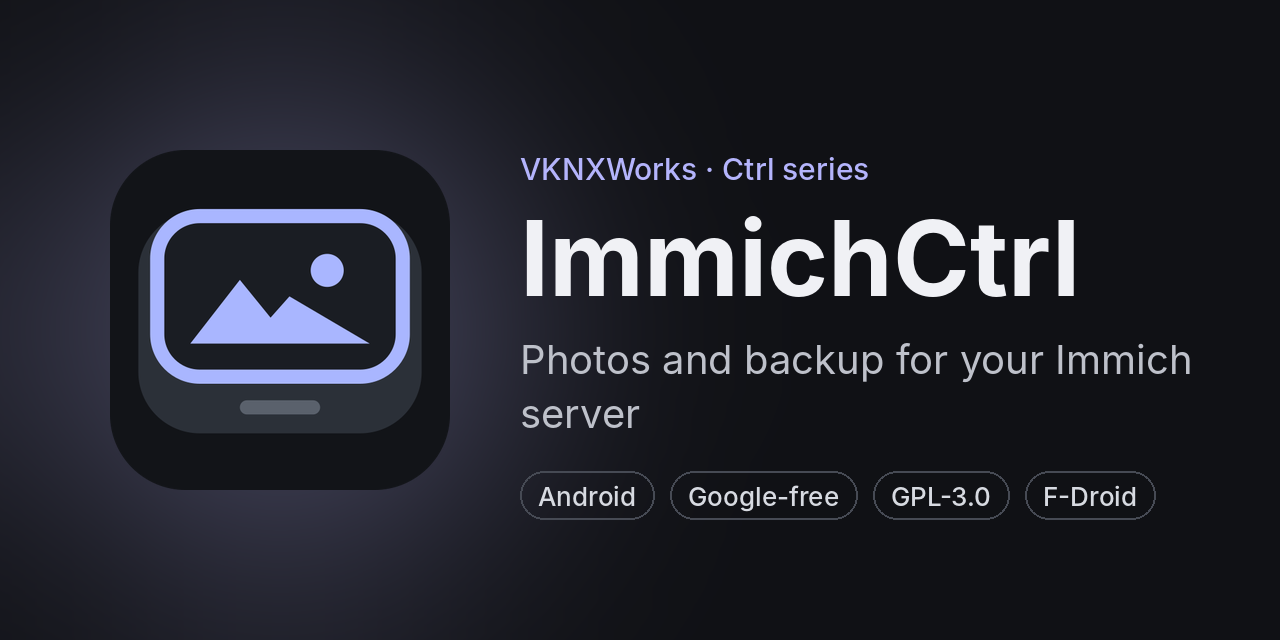
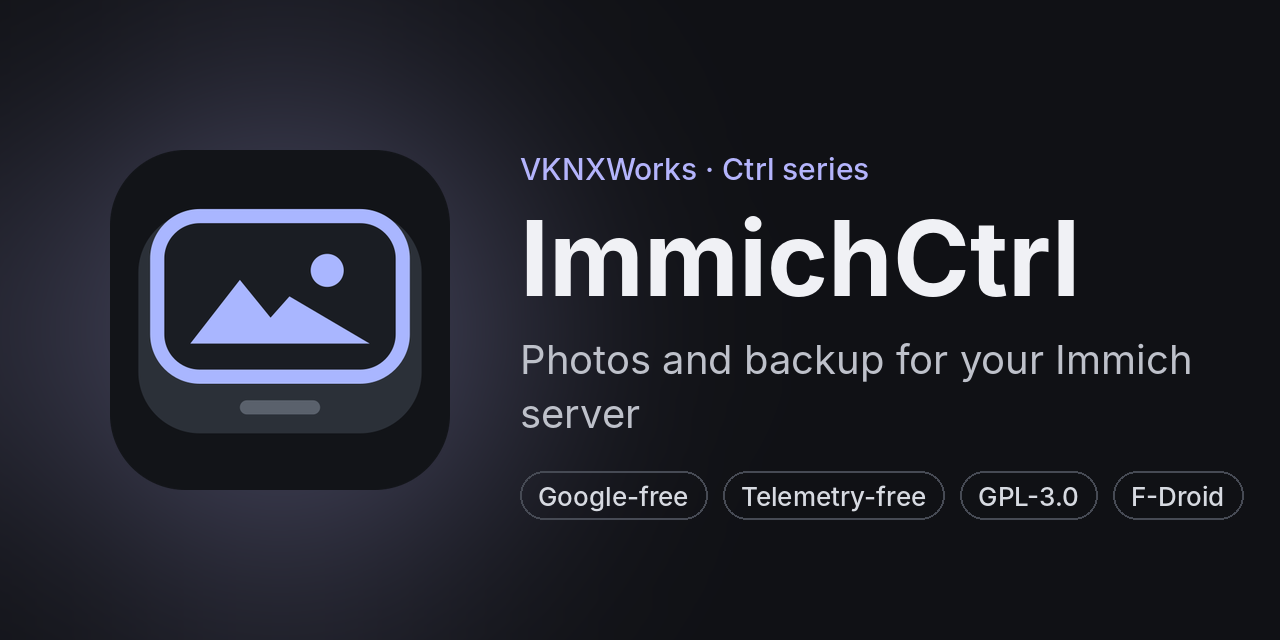
ImmichCtrl 0.3.3: remove the usage stats, telemetry-free
Claude-Session: https://claude.ai/code/session_01EwhEpZ1DKRJef9Cqeiv5g2

Changed region(s): [[0.4062, 0.7188, 0.9688, 0.8125]]

diff --git a/app/src/main/java/com/vknxworks/immichctrl/ui/photos/AssetActions.kt b/app/src/main/java/com/vknxworks/immichctrl/ui/photos/AssetActions.kt
@@ -164,13 +164,6 @@ fun AppContainer.trash(assets: Collection<Asset>, permanently: Boolean) {
     }
 }
 
-/**
- * Usage stats (only if the user opted in): which kind of action, and a rough size ("2-10"),
- * never which photos or album.
- */
-internal fun AppContainer.trackAction(kind: String, count: Int) =
-    telemetry.track("photo_action", mapOf("kind" to kind, "items" to telemetry.sizeBucket(count)))
-
 /** Removes the phone's copy of photos that are backed up (Free Up Space for a few photos). */
 fun AppContainer.deleteFromPhone(assets: Collection<Asset>) {
     val backedUp = assets.filter { it.onDevice && it.localId != null }
@@ -205,8 +198,7 @@ fun AppContainer.restore(assets: Collection<Asset>) {
 }
 
 /** Server photos are added; photos only on this phone are uploaded straight into the album. */
-fun AppContainer.addToAlbum(albumId: String, albumName: String, assets: Collection<Asset>, track: Boolean = true) {
-    if (track) trackAction("add_to_album", assets.size)
+fun AppContainer.addToAlbum(albumId: String, albumName: String, assets: Collection<Asset>) {
     val remote = assets.filter { it.isRemote }.map { it.id }
     val phone = phoneUris(assets.filter { it.isLocalOnly })
     runTask {
@@ -232,7 +224,6 @@ fun AppContainer.removeFromAlbum(albumId: String, assets: Collection<Asset>) {
 }
 
 fun AppContainer.share(assets: Collection<Asset>, large: Boolean) {
-    trackAction("share", assets.size)
     val remote = assets.filter { it.isRemote }.map { it.id }
     val phone = phoneUris(assets.filter { it.isLocalOnly })
     if (remote.isNotEmpty()) toast(if (assets.size == 1) "Preparing to share…" else "Preparing ${assets.size} items to share…")
@@ -243,7 +234,6 @@ fun AppContainer.share(assets: Collection<Asset>, large: Boolean) {
 fun AppContainer.download(assets: Collection<Asset>) {
     val remote = assets.filter { it.isRemote }
     if (remote.isEmpty()) return
-    trackAction("save_to_phone", remote.size)
     toast("Saving ${countLabel(remote.size, "item")} to Pictures/ImmichCtrl…")
     runTask {
         val n = Exporter.download(context, api, remote.map { it.id })
@@ -254,7 +244,6 @@ fun AppContainer.download(assets: Collection<Asset>) {
 fun AppContainer.shareLink(assets: Collection<Asset>, options: LinkOptions = LinkOptions()) {
     val remote = assets.filter { it.isRemote }
     if (remote.isEmpty()) return
-    trackAction("share_link", remote.size)
     runTask {
         val link = api.createSharedLink(
             assetIds = remote.map { it.id },
@@ -450,12 +439,11 @@ fun SelectionBar(
             pickAlbum = false
             val list = assets
             if (id == null) {
-                c.trackAction("create_album", list.size)
                 c.runTask {
                     val remote = list.filter { it.isRemote }.map { it.id }
                     val album = c.api.createAlbum(name, remote)
                     c.toast("Created $name")
-                    if (list.any { it.isLocalOnly }) c.addToAlbum(album.id, name, list.filter { it.isLocalOnly }, track = false)
+                    if (list.any { it.isLocalOnly }) c.addToAlbum(album.id, name, list.filter { it.isLocalOnly })
                     Sources.refreshAll()
                 }
             } else {

diff --git a/app/src/main/java/com/vknxworks/immichctrl/data/settings/AppSettings.kt b/app/src/main/java/com/vknxworks/immichctrl/data/settings/AppSettings.kt
@@ -15,6 +15,7 @@ import kotlinx.coroutines.flow.StateFlow
 import kotlinx.coroutines.flow.first
 import kotlinx.coroutines.flow.map
 import kotlinx.coroutines.flow.stateIn
+import kotlinx.coroutines.launch
 
 enum class ThemeChoice(val label: String) { SYSTEM("Follow system"), DARK("Dark"), LIGHT("Light"), BLACK("Pure black") }
 
@@ -86,12 +87,6 @@ data class AppSettings(
     val backupVideos: Boolean = true,
     /** Mirror phone albums to server albums with the same names. */
     val albumSync: Boolean = false,
-
-    // Usage stats
-    /** Opt-in anonymous usage stats (off until the user says yes). */
-    val usageStats: Boolean = false,
-    /** Whether the one-time usage stats question has been answered. */
-    val usageStatsAsked: Boolean = false,
 )
 
 class SettingsRepository(private val context: Context, scope: CoroutineScope) {
@@ -132,13 +127,18 @@ class SettingsRepository(private val context: Context, scope: CoroutineScope) {
         val charging = booleanPreferencesKey("backup_charging_only")
         val videos = booleanPreferencesKey("backup_videos")
         val albumSync = booleanPreferencesKey("album_sync")
-        val usageStats = booleanPreferencesKey("usage_stats")
-        val usageStatsAsked = booleanPreferencesKey("usage_stats_asked")
+        /** Left over from the optional stats removed in 0.3.3; deleted on the next save and at start. */
+        val legacy = listOf(booleanPreferencesKey("usage_stats"), booleanPreferencesKey("usage_stats_asked"))
     }
 
     val settings: StateFlow<AppSettings> = context.appDataStore.data
         .map { it.toSettings() }
         .stateIn(scope, SharingStarted.Eagerly, AppSettings())
+
+    init {
+        // Delete what the removed optional stats stored, so nothing of them stays on the phone.
+        scope.launch { context.appDataStore.edit { p -> K.legacy.forEach { p.remove(it) } } }
+    }
 
     /** The stored settings as they're read and changed, without [settings]' placeholder defaults at start-up. */
     val stored: Flow<AppSettings> = context.appDataStore.data.map { it.toSettings() }
@@ -180,8 +180,6 @@ class SettingsRepository(private val context: Context, scope: CoroutineScope) {
         backupChargingOnly = this[K.charging] ?: false,
         backupVideos = this[K.videos] ?: true,
         albumSync = this[K.albumSync] ?: false,
-        usageStats = this[K.usageStats] ?: false,
-        usageStatsAsked = this[K.usageStatsAsked] ?: false,
     )
 
     /** The stored settings, read fresh (for background work started before [settings] has loaded). */
@@ -226,8 +224,7 @@ class SettingsRepository(private val context: Context, scope: CoroutineScope) {
             p[K.charging] = s.backupChargingOnly
             p[K.videos] = s.backupVideos
             p[K.albumSync] = s.albumSync
-            p[K.usageStats] = s.usageStats
-            p[K.usageStatsAsked] = s.usageStatsAsked
+            K.legacy.forEach { p.remove(it) }
         }
     }
 

diff --git a/app/src/main/java/com/vknxworks/immichctrl/ui/nav/AppRoot.kt b/app/src/main/java/com/vknxworks/immichctrl/ui/nav/AppRoot.kt
@@ -100,7 +100,6 @@ import com.vknxworks.immichctrl.ui.search.SearchScreen
 import com.vknxworks.immichctrl.ui.settings.AccountsScreen
 import com.vknxworks.immichctrl.ui.settings.AdminScreen
 import com.vknxworks.immichctrl.ui.settings.SettingsScreen
-import com.vknxworks.immichctrl.ui.settings.UsageStatsPrompt
 import com.vknxworks.immichctrl.ui.settings.YouScreen
 import com.vknxworks.immichctrl.ui.viewer.ViewerScreen
 import dev.chrisbanes.haze.hazeSource
@@ -184,13 +183,6 @@ private fun LockScreen() {
     }
 }
 
-/**
- * "com.vknxworks.immichctrl.ui.nav.AlbumRoute/{id}" -> "Album". Only the route's class name: arguments (photo and
- * album IDs, people, place and tag names, folder paths) are dropped.
- */
-private fun screenName(route: String): String =
-    route.substringBefore('/').substringBefore('?').substringAfterLast('.').removeSuffix("Route")
-
 /** Screens read-only mode never shows: they change the account, its settings or what's on the server. */
 private fun androidx.navigation.NavDestination.blockedInReadOnly(): Boolean =
     hasRoute(YouRoute::class) || hasRoute(SettingsRoute::class) || hasRoute(AccountsRoute::class) ||
@@ -242,14 +234,6 @@ private fun MainScaffold() {
     val offLimits = selectedIndex > 0 || dest?.blockedInReadOnly() == true
     LaunchedEffect(readOnly, offLimits) { if (readOnly && offLimits) navController.navigate(PhotosRoute) { popUpTo(0) } }
 
-    // Usage stats (only if the user opted in): the kind of screen, never the photo, album, person or place it shows.
-    val entryId = backStack?.id
-    val screen = dest?.route?.let(::screenName)
-    LaunchedEffect(entryId) {
-        if (screen != null) c.telemetry.track("screen_viewed", mapOf("screen" to screen))
-    }
-    // Not in read-only mode: whoever the phone was handed to shouldn't be the one answering.
-    if (!readOnly) UsageStatsPrompt()
 
     fun selectTab(i: Int) {
         navController.navigate(topDestinations[i].route) {

diff --git a/app/src/main/java/com/vknxworks/immichctrl/ui/settings/SettingsScreens.kt b/app/src/main/java/com/vknxworks/immichctrl/ui/settings/SettingsScreens.kt
@@ -15,7 +15,6 @@ import androidx.compose.material.icons.outlined.BugReport
 import androidx.compose.material.icons.outlined.ChildCare
 import androidx.compose.material.icons.outlined.CloudDone
 import androidx.compose.material.icons.outlined.Fingerprint
-import androidx.compose.material.icons.outlined.Insights
 import androidx.compose.material.icons.outlined.LocationOff
 import androidx.compose.material.icons.outlined.Lock
 import androidx.compose.material.icons.outlined.Map
@@ -171,16 +170,6 @@ fun SettingsScreen() {
                     s.showMaps,
                     Icons.Outlined.Map,
                 ) { v -> update { it.copy(showMaps = v) } }
-            }
-            if (c.telemetry.available) {
-                Group("Usage stats", footer = USAGE_STATS_DESCRIPTION) {
-                    GroupSwitch(
-                        "Share anonymous usage stats",
-                        "Helps decide what to improve next",
-                        s.usageStats,
-                        Icons.Outlined.Insights,
-                    ) { v -> update { it.copy(usageStats = v, usageStatsAsked = true) } }
-                }
             }
             if (session?.account?.isAdmin == true) {
                 Group("Admin alerts", footer = "Checked about once an hour. Only shown on admin accounts.") {

diff --git a/app/src/main/java/com/vknxworks/immichctrl/ui/backup/BackupScreen.kt b/app/src/main/java/com/vknxworks/immichctrl/ui/backup/BackupScreen.kt
@@ -163,10 +163,7 @@ fun BackupScreen() {
                         }
                         PillButton(
                             "Back up now",
-                            onClick = {
-                                c.backup.backupNow()
-                                c.telemetry.track("backup_run", mapOf("trigger" to "button"))
-                            },
+                            onClick = { c.backup.backupNow() },
                             enabled = settings.backupAlbums.isNotEmpty() || settings.backupEverything,
                             modifier = Modifier.fillMaxWidth(),
                         )
@@ -220,7 +217,6 @@ fun BackupScreen() {
                 ) { on ->
                     // Backups only ever go to the account they were turned on for.
                     update { it.copy(backupEnabled = on, backupAccount = if (on) me else null) }
-                    c.telemetry.track("backup_toggled", mapOf("enabled" to on.toString()))
                     if (on) askPermissions()
                 }
                 GroupSwitch("Only on Wi-Fi", null, settings.backupWifiOnly, Icons.Outlined.Wifi) { on -> update { it.copy(backupWifiOnly = on) } }

diff --git a/app/src/main/java/com/vknxworks/immichctrl/ui/viewer/ViewerScreen.kt b/app/src/main/java/com/vknxworks/immichctrl/ui/viewer/ViewerScreen.kt
@@ -128,7 +128,6 @@ import com.vknxworks.immichctrl.ui.photos.setFavorite
 import com.vknxworks.immichctrl.ui.photos.setLocation
 import com.vknxworks.immichctrl.ui.photos.setVisibility
 import com.vknxworks.immichctrl.ui.photos.shareLink
-import com.vknxworks.immichctrl.ui.photos.trackAction
 import com.vknxworks.immichctrl.ui.photos.trash
 import com.vknxworks.immichctrl.ui.photos.upload
 import dev.chrisbanes.haze.hazeSource
@@ -445,10 +444,9 @@ fun ViewerScreen(sourceKey: String, startIndex: Int, startId: String) {
         AlbumPickerSheet(onDismiss = { pickAlbum = false }) { id, name ->
             pickAlbum = false
             if (id == null) {
-                c.trackAction("create_album", 1)
                 c.runTask {
                     val album = c.api.createAlbum(name, if (a.isRemote) listOf(a.id) else emptyList())
-                    if (a.isLocalOnly) c.addToAlbum(album.id, name, listOf(a), track = false)
+                    if (a.isLocalOnly) c.addToAlbum(album.id, name, listOf(a))
                     c.toast("Created $name")
                     Sources.refreshAll()
                 }

diff --git a/app/src/main/java/com/vknxworks/immichctrl/AppContainer.kt b/app/src/main/java/com/vknxworks/immichctrl/AppContainer.kt
@@ -28,7 +28,6 @@ import com.vknxworks.immichctrl.data.offline.OfflineStore
 import com.vknxworks.immichctrl.data.offline.OfflineWorker
 import com.vknxworks.immichctrl.data.security.AppLock
 import com.vknxworks.immichctrl.data.settings.SettingsRepository
-import com.vknxworks.immichctrl.data.telemetry.Telemetry
 import com.vknxworks.immichctrl.data.timeline.Sources
 import com.vknxworks.immichctrl.ui.widget.WidgetWorker
 import kotlinx.coroutines.CoroutineScope
@@ -105,7 +104,6 @@ class AppContainer(val context: Context) {
 
     val sessions = SessionManager(context, http, appScope)
     val settings = SettingsRepository(context, appScope)
-    val telemetry = Telemetry(context, settings, appScope)
     val backupDb = BackupDb(context)
     val backup = BackupManager(context, settings, sessions, backupDb, appScope)
     val local = LocalLibrary(context, backupDb, sessions, settings)

diff --git a/app/src/main/java/com/vknxworks/immichctrl/ui/search/SearchScreen.kt b/app/src/main/java/com/vknxworks/immichctrl/ui/search/SearchScreen.kt
@@ -100,10 +100,6 @@ fun SearchScreen() {
         text = q
         query = q.trim()
         focus.clearFocus()
-        // Only the kind of search and whether filters were on, never what was searched for.
-        if (query.isNotEmpty()) {
-            c.telemetry.track("search_used", mapOf("mode" to mode.name.lowercase(), "filters" to (filters.active > 0).toString()))
-        }
     }
 
     val searchBar: @Composable () -> Unit = {

diff --git a/app/src/main/java/com/vknxworks/immichctrl/MainActivity.kt b/app/src/main/java/com/vknxworks/immichctrl/MainActivity.kt
@@ -46,7 +46,6 @@ class MainActivity : FragmentActivity() {
         setRecentsScreenshotEnabled(false)
         enableEdgeToEdge()
         val c = container
-        if (savedInstanceState == null) c.telemetry.appOpened()
         setContent {
             // FLAG_SECURE while the locked folder or the app-lock cover is showing.
             val secure = ScreenPrivacy.secure

diff --git a/app/src/main/java/com/vknxworks/immichctrl/data/backup/BackupTileService.kt b/app/src/main/java/com/vknxworks/immichctrl/data/backup/BackupTileService.kt
@@ -65,7 +65,6 @@ class BackupTileService : TileService() {
                 return@launch
             }
             c.backup.backupNow()
-            c.telemetry.track("backup_run", mapOf("trigger" to "tile"))
             showState(true, "Starting…")
         }
     }

diff --git a/README.md b/README.md
@@ -2,7 +2,7 @@
 
 **Your Immich photo library and backup, in a native Android app.**
 
-[![Latest release](https://img.shields.io/github/v/release/VoidedKN0X/ImmichCtrl?label=download)](https://github.com/VoidedKN0X/ImmichCtrl/releases/latest) ![Android 13+](https://img.shields.io/badge/Android-13%2B-3DDC84?logo=android&logoColor=white) [![License: GPL-3.0](https://img.shields.io/badge/license-GPL--3.0-blue)](LICENSE) [![Sponsor](https://img.shields.io/badge/sponsor-GitHub-ea4aaa?logo=githubsponsors&logoColor=white)](https://github.com/sponsors/VoidedKN0X)
+[![Latest release](https://img.shields.io/github/v/release/VoidedKN0X/ImmichCtrl?label=download)](https://github.com/VoidedKN0X/ImmichCtrl/releases/latest) ![Android 13+](https://img.shields.io/badge/Android-13%2B-3DDC84?logo=android&logoColor=white) [![License: GPL-3.0](https://img.shields.io/badge/license-GPL--3.0-blue)](LICENSE) ![Telemetry-free](https://img.shields.io/badge/telemetry-none-brightgreen) [![Sponsor](https://img.shields.io/badge/sponsor-GitHub-ea4aaa?logo=githubsponsors&logoColor=white)](https://github.com/sponsors/VoidedKN0X)
 
 ImmichCtrl is an Android app for self-hosted [Immich](https://immich.app/) photo servers. Browse your timeline, back up your phone, edit and organise your photos, and keep albums for offline viewing. Works with Immich 2.x and 3.x.
 
@@ -116,23 +116,17 @@ Your account, backup, **Settings** and sign out are all on that same page behind
 - **Something not working?** **Settings → Logs** shows what the app has been doing; copy or share it when reporting a bug.
 - See [CHANGELOG.md](CHANGELOG.md) for what changed in each version.
 
-## Usage stats
+## Privacy
 
-ImmichCtrl can share anonymous usage stats, **only if you say yes**. It asks once after you sign in, and you can change it any time in **Settings > Usage stats**.
-
-- **Shared:** which screens you open (the kind of screen, never which album, person or place), whether automatic backup is on, when you turn it on or off and when a backup is started (from the app or the Quick Settings tile), which kind of search you use and whether filters were on, which photo actions you use (share, share a link, save, add to an album, new album) with a rough number of photos like "2-10", the app version, Android version, phone model, language, and phone or tablet.
-- **Never shared:** your server address, email, username or passwords, your photos or anything about them (IDs, file names, locations), album, people, place or tag names, what you search for, exact counts, or any ID that stays the same between sessions.
-- **Where:** VKNXWorks' own self-hosted [Aptabase](https://aptabase.com) server. Nothing goes to Google or analytics companies. Like any website, the server sees your IP address; Aptabase uses it only to work out the country and doesn't store it.
-
-Builds from source don't include the stats key, so they can't send anything and the setting is hidden. The code is in [`Telemetry.kt`](app/src/main/java/com/vknxworks/immichctrl/data/telemetry/Telemetry.kt).
+**Telemetry-free.** ImmichCtrl has no analytics, crash reporting, usage stats or tracking of any kind. It only talks to the servers you add, plus the map provider below when maps are on.
 
 ### Other servers the app talks to
 
-Apart from your own Immich server (and the opt-in stats above), ImmichCtrl only contacts:
+Apart from your own Immich server, ImmichCtrl only contacts:
 
 - **Your server's map provider**, for the mini map in a photo's details and the Map screen: Immich's tile server (`tiles.immich.cloud`) unless your admin chose another map style. It sees your IP address and the area shown. Maps only load when the map is turned on in your server's settings, and you can turn them off in **Settings > Privacy > Show maps**.
 
-Nothing else: no Google services, no ads, no other analytics.
+Nothing else: no Google services, no ads, no analytics.
 
 ## Build from source
 

diff --git a/CHANGELOG.md b/CHANGELOG.md
@@ -4,11 +4,16 @@ All notable changes to ImmichCtrl. Builds 0.2.5 and earlier were numbered by Git
 
 To publish a new version: bump `versionCode` and `versionName` in `app/build.gradle.kts`, add a section here, and push to `main`. Pushes without a version bump only build; they don't make a release.
 
-## Unreleased
+## 0.3.3
+
+### Privacy
+
+- **No more usage stats: ImmichCtrl is now telemetry-free.** The optional anonymous usage stats are gone completely, along with the Usage stats setting and the one-time question. The app no longer contacts VKNXWorks' stats server at all, and the settings it used are deleted from your phone when you update. ImmichCtrl now only talks to your Immich server and, when maps are on, your server's map provider.
 
 ### Changed
 
 - **README**: a Screenshots section (screenshots are coming soon), and a link preview image (`.github/assets/social-preview.png`) with ImmichCtrl's icon, name and summary, for when the repo is shared on Reddit, Discord or elsewhere
+- **README**: a Privacy section and a Telemetry-free badge replace the Usage stats section, and the link preview image has a Telemetry-free tag
 
 ## 0.3.2
 
